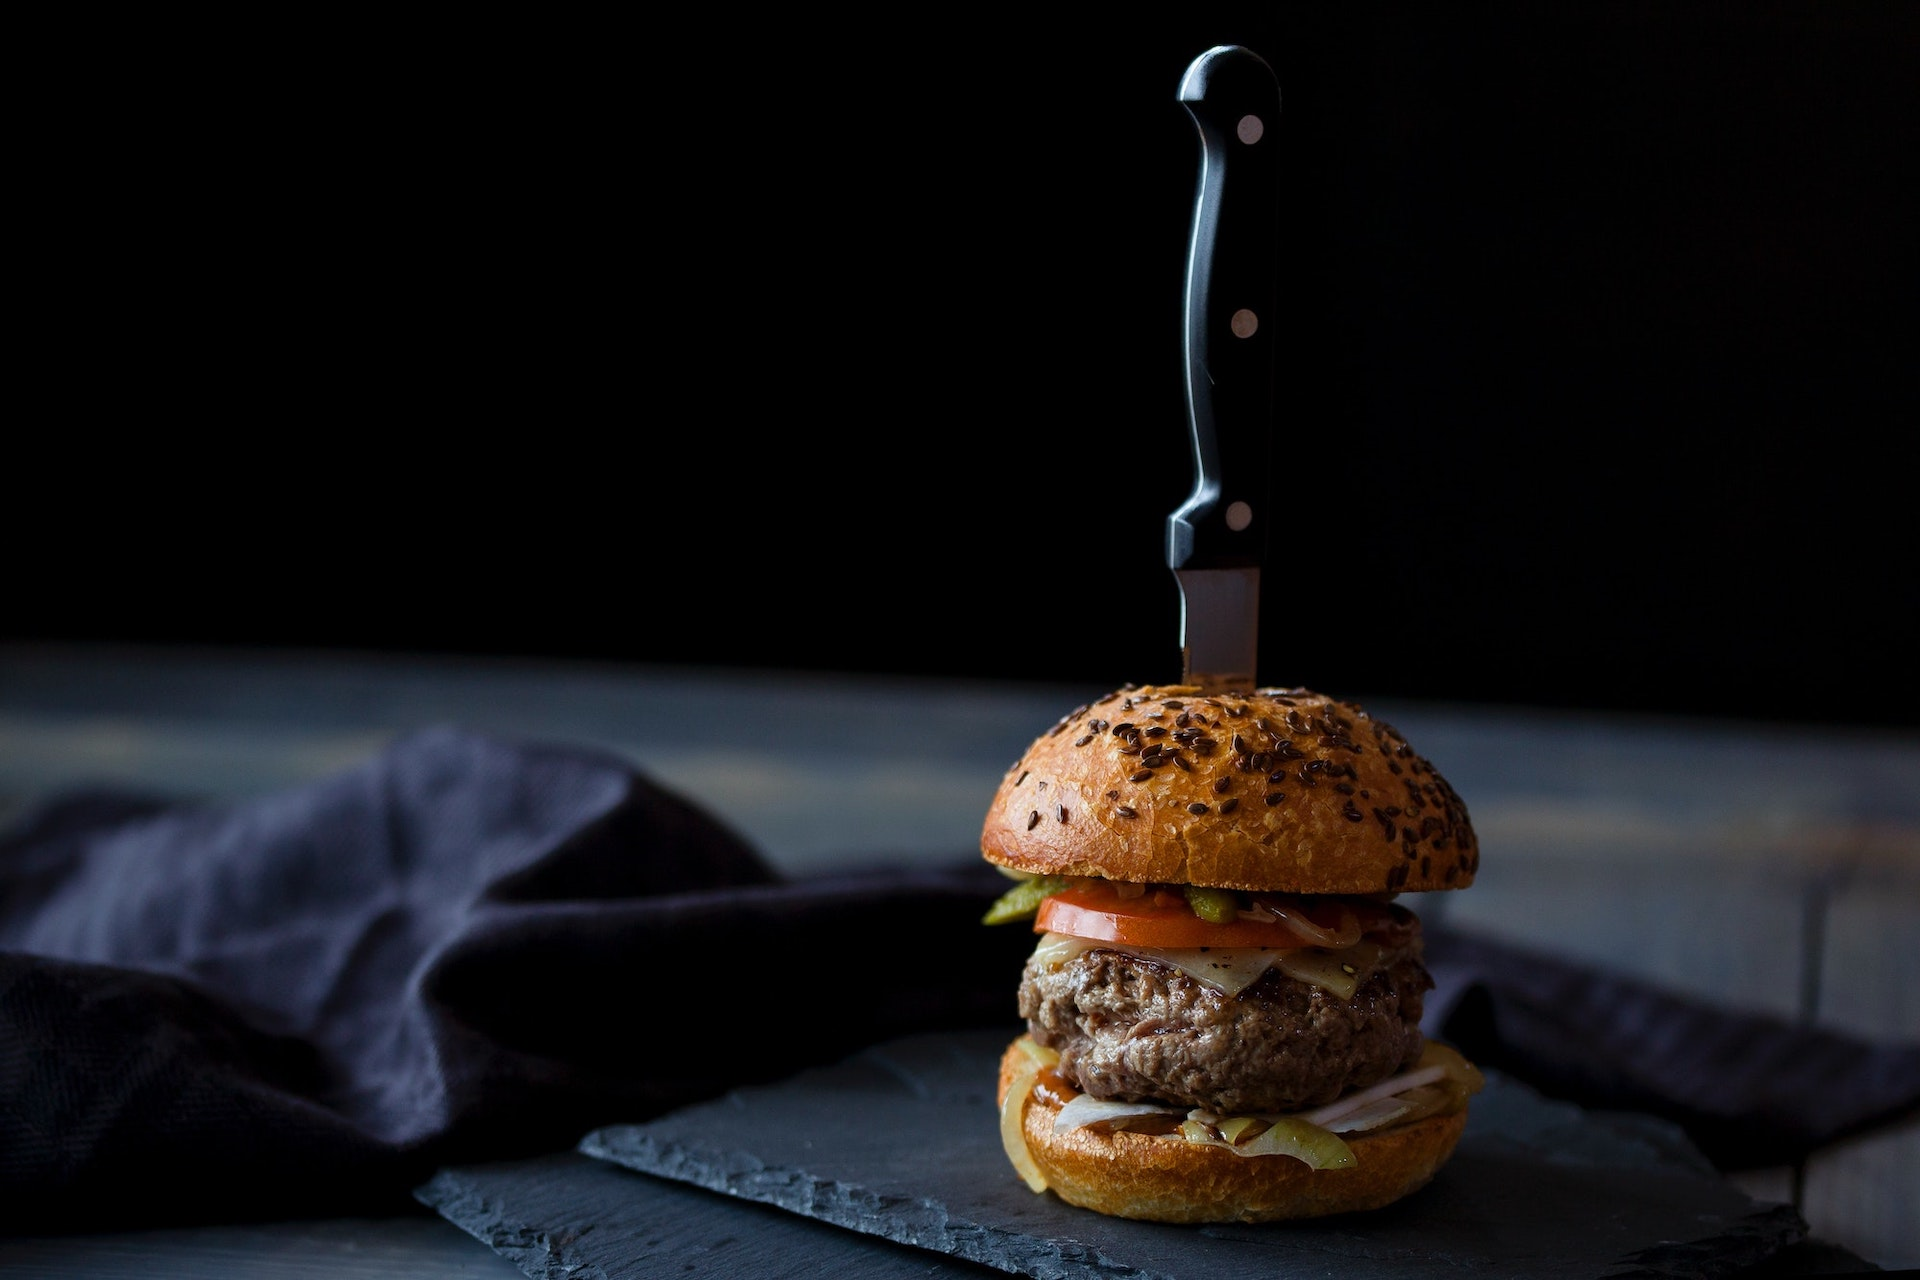
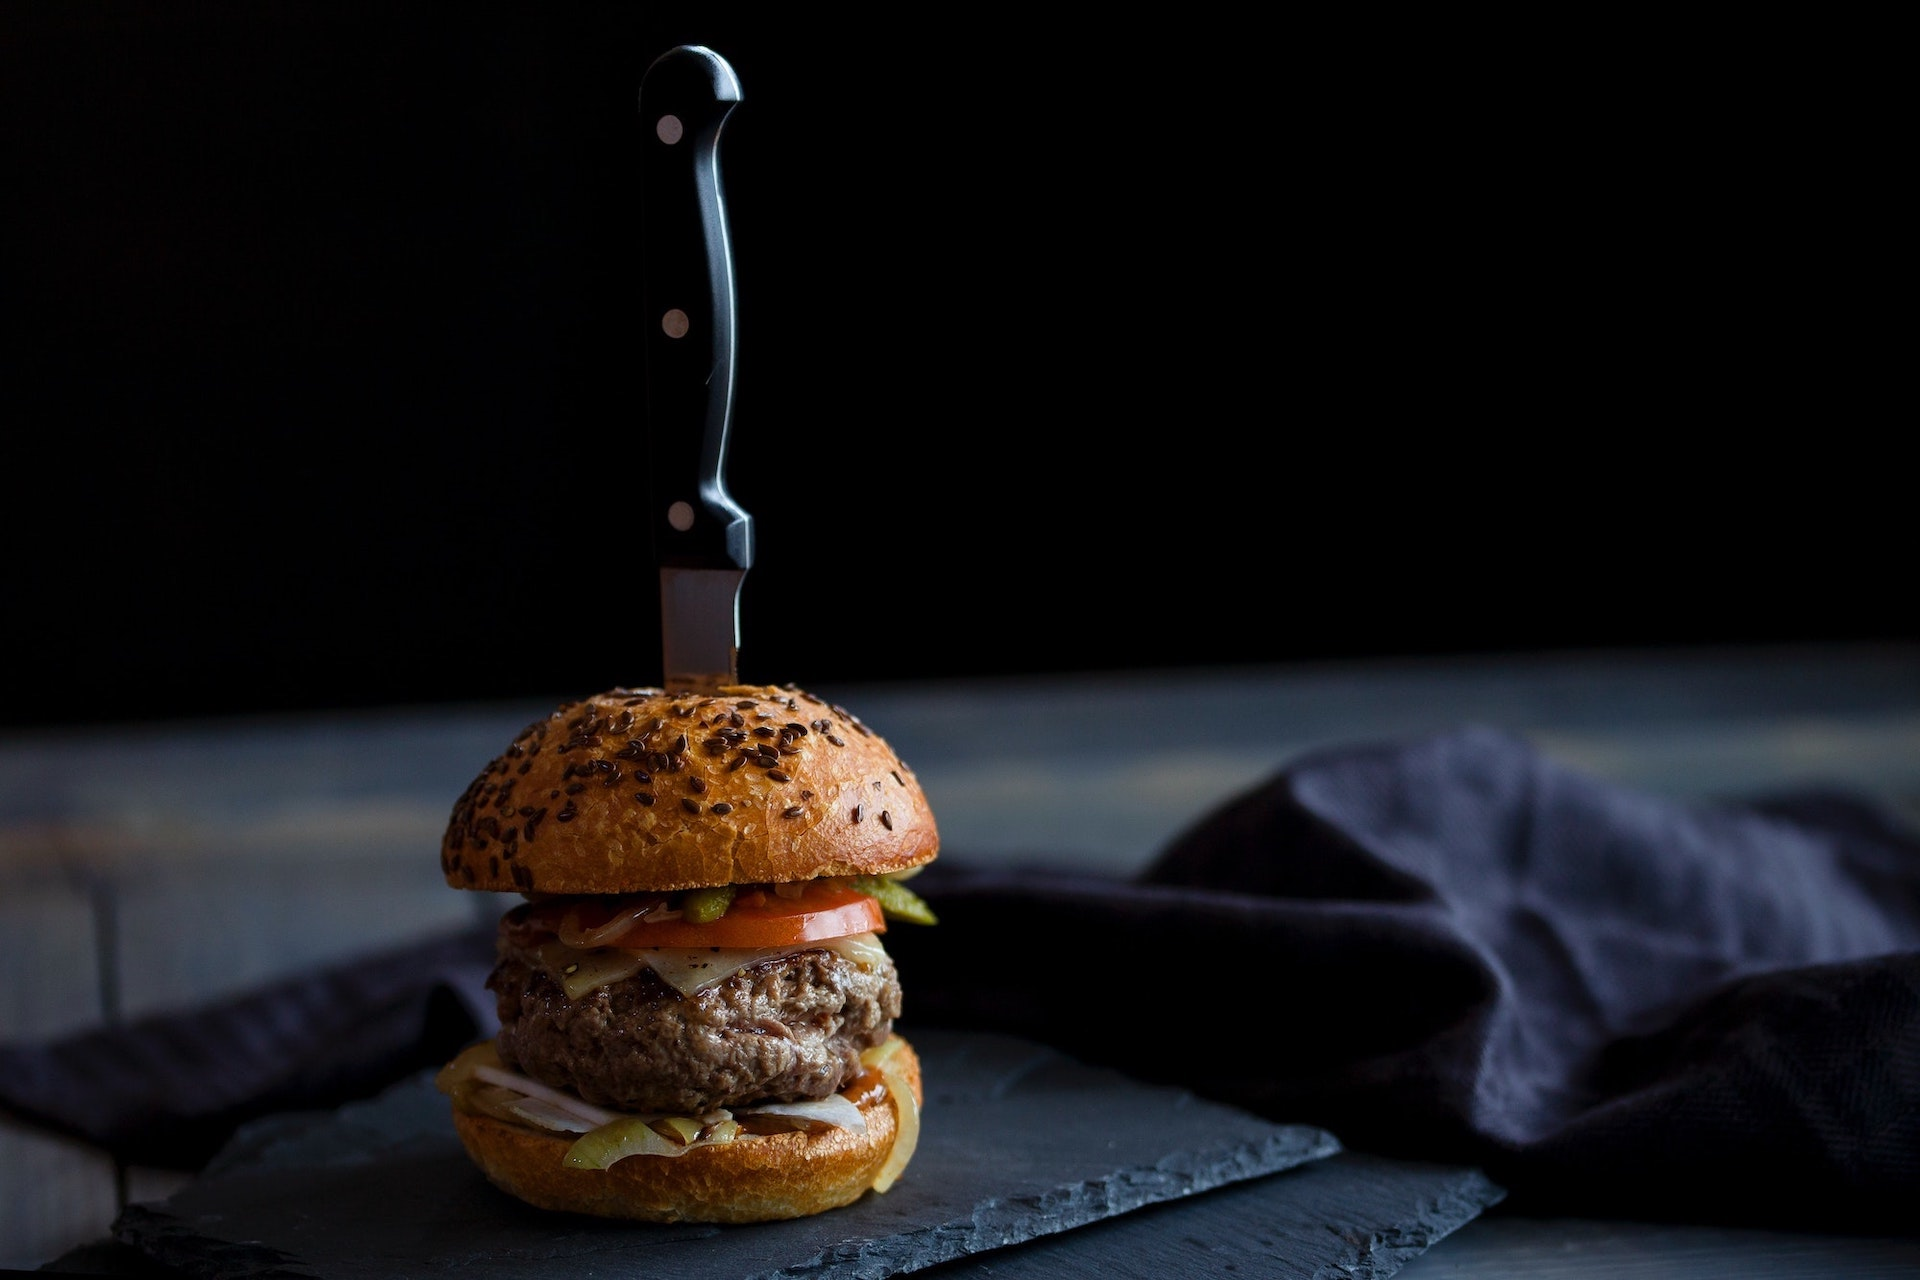
added css

diff --git a/public/stylesheets/style.css b/public/stylesheets/style.css
@@ -8,15 +8,29 @@
     box-sizing: border-box;
 } */
 
-
-#hero img{
-    width: 100%;
-    height: 300px;
+.nav-wrapper {
+    background-image: url('../assets/Burger-Desktop.jpg');
     background-size: cover;
+    background-attachment: fixed;
+    background-position-y: 550px;
+    width: 100%;
+}
+
+#hero {
+    background-image: url('../assets/Burger-Desktop.jpg');
+    background-size: cover;
+    background-attachment: fixed;
+    background-position-y: 550px;
+    width: 100%;
+    height: 400px;
 }
 
 select {
     display: flex;
 }
-
-/* #ff0022, #edfdfb, #b9bab8, #f8e9f2, #04030f */
+form {
+    caret-color: white;
+}
+form label, form input {
+    color: white;
+}

diff --git a/server.js b/server.js
@@ -4,6 +4,7 @@ const sequelize = require('./config/connection');
 const path = require('path');
 const exphbs = require('express-handlebars');
 const session = require('express-session')
+const helpers = require('./utils/helpers');
 
 const SequelizeStore = require('connect-session-sequelize')(session.Store);
 
@@ -17,7 +18,7 @@ const sess = {
     })
 };
 
-const hbs = exphbs.create({});
+const hbs = exphbs.create({ helpers });
 
 const app = express();
 const PORT = process.env.PORT || 3001;

diff --git a/utils/helpers.js b/utils/helpers.js
@@ -1,0 +1,7 @@
+module.exports = {
+    format_date: date => {
+      return `${new Date(date).getMonth() + 1}/${new Date(date).getDate()}/${new Date(
+        date
+      ).getFullYear()}`;
+    }
+  }
